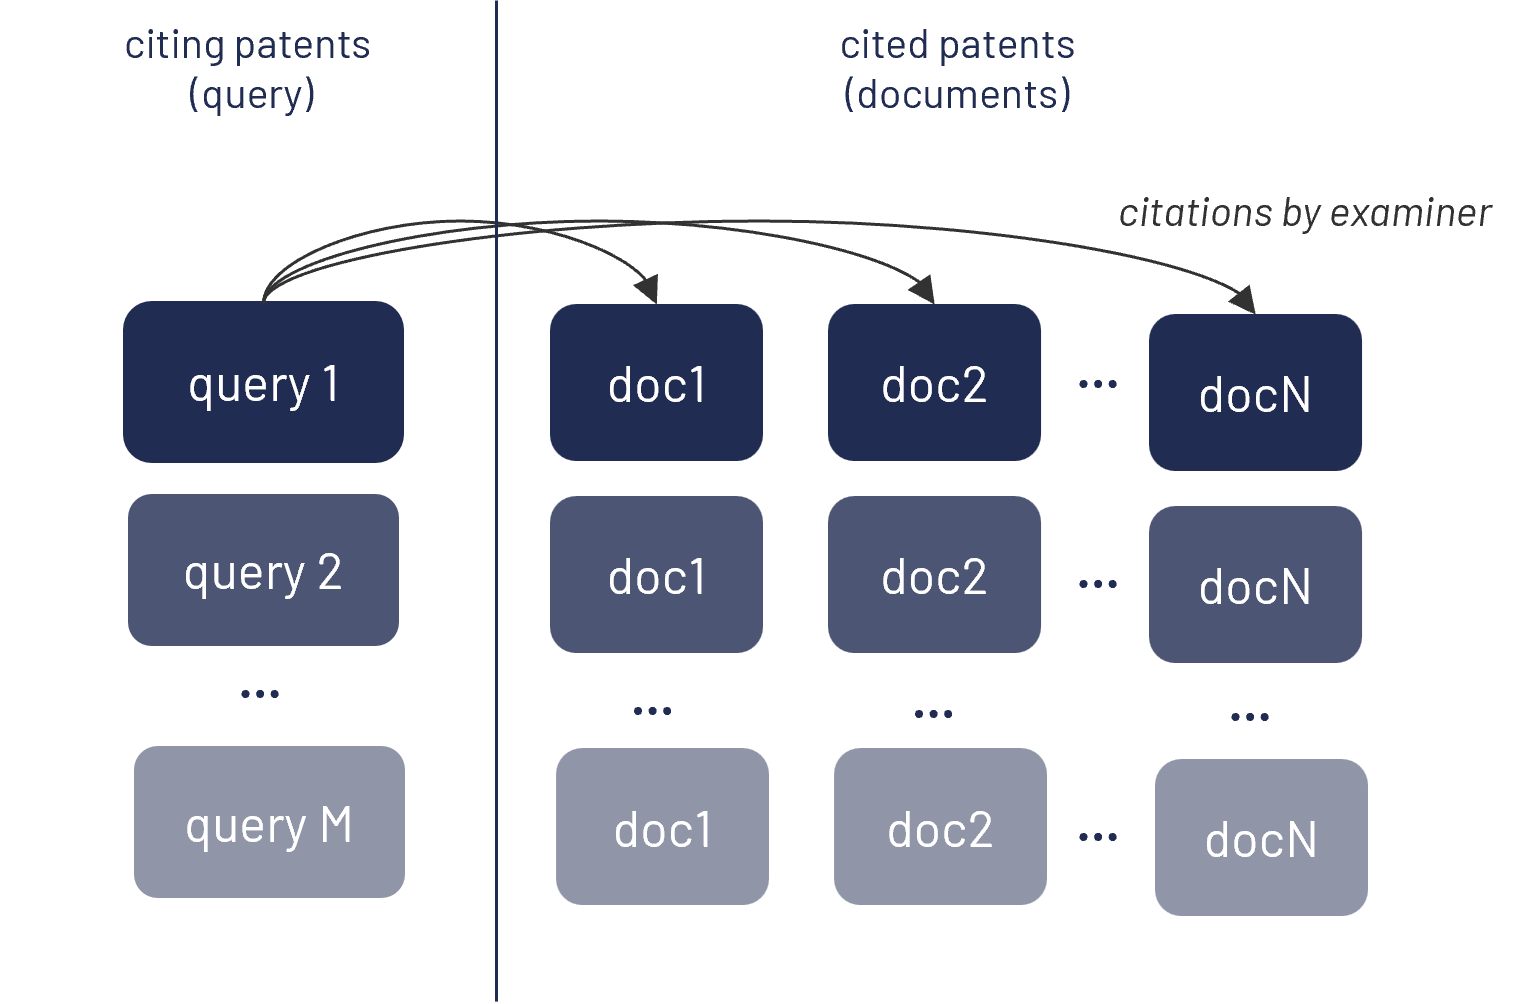
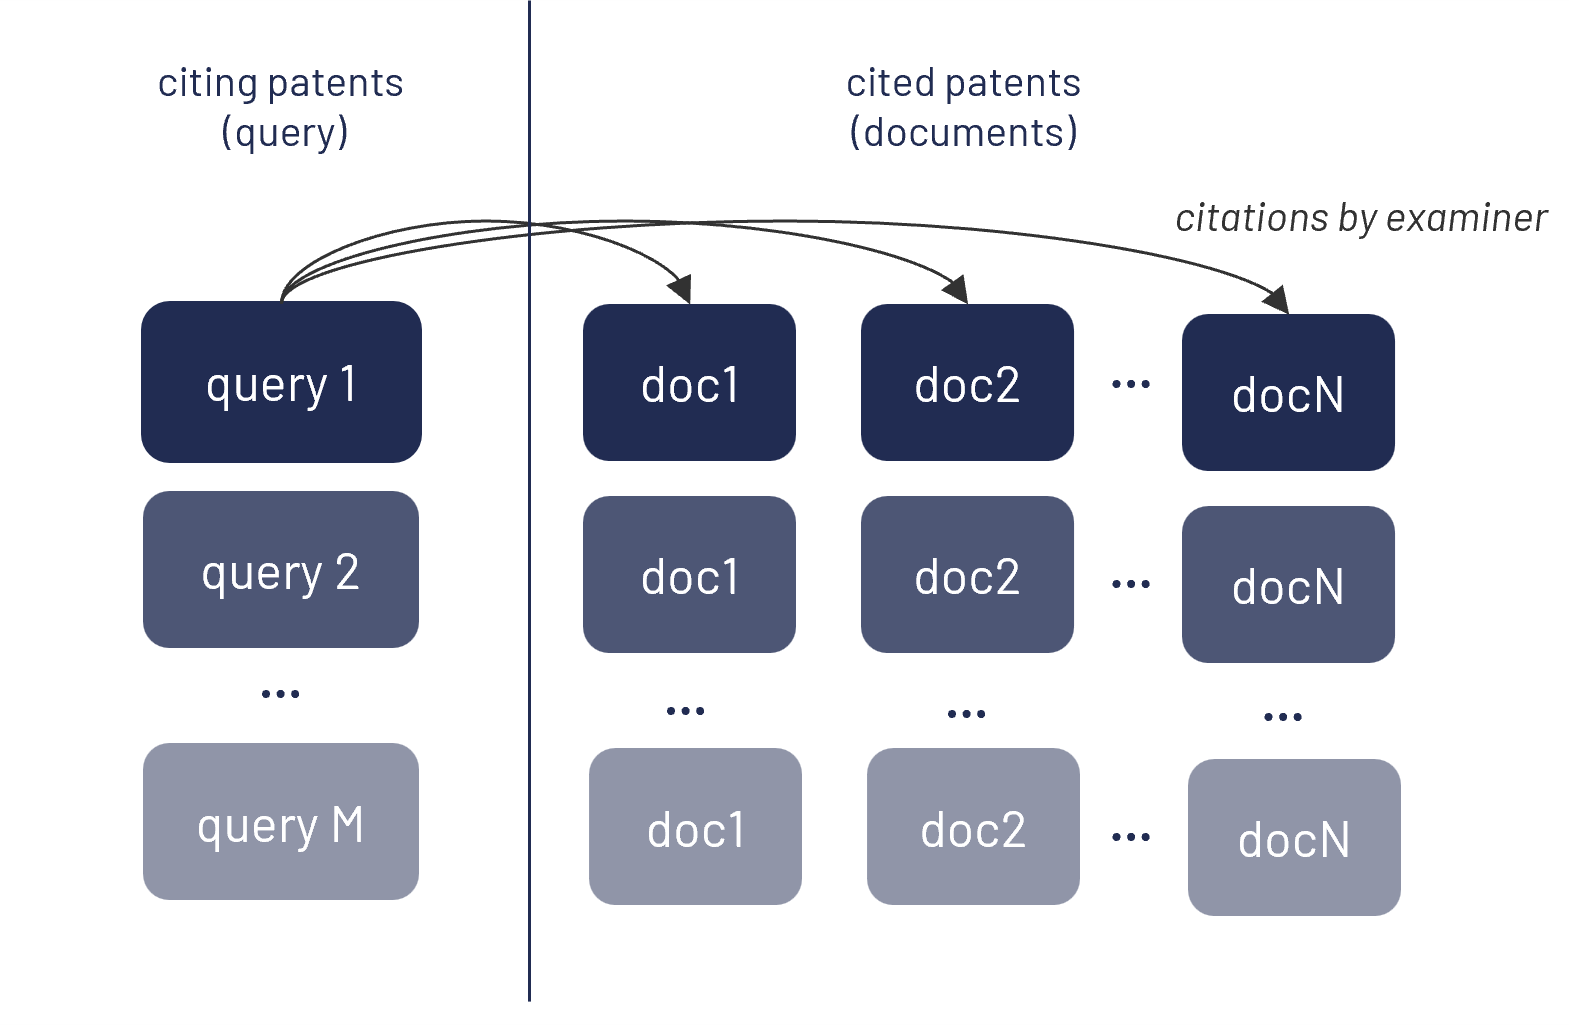
add example of scraping

diff --git a/README.md b/README.md
@@ -1,15 +1,18 @@
 # Dataset for Multimodal Information Retrieval - Googl Patent Scraping
 
-This repository provides scripts for constructing an evaluation dataset for multimodal information retrieval (IR). The pipeline enables the automatic creation of the dataset by scraping front-page images and first claims from Google Patents (https://patents.google.com/).
+This repository provides scripts for constructing an evaluation dataset for multimodal information retrieval (IR). The pipeline enables the automatic creation of the dataset by scraping front-page images and first claims from Google Patents (https://patents.google.com/), see Fig.1.
 
-We use existing patent citation metadata to establish query–document relationships: for each citing patent, its cited patents are retrieved and used as relevant documents. This approach allows the automatic generation of relevance labels, eliminating the need for costly and time-consuming manual annotation (see Fig. 1). 
+![example_scraping](assets/example_scraping.png)
 
+**Fig. 1** - *Example of accessing the HTML element corresponding to the front-page image of a patent on Google Patents.*
 
-![readme_img](assets/citations_by_examiner.png)
+We use existing patent citation metadata to establish query–document relationships: for each citing patent, its cited patents are retrieved and used as relevant documents. This approach allows the automatic generation of relevance labels, eliminating the need for costly and time-consuming manual annotation (see Fig. 2). This approach, applied jointly to patent images and textual content, is not currently supported by existing web service platforms such as Espacenet and the USPTO.
 
-**Fig. 1** - *query-document reslationships using*
+![citations_by_examiner](assets/citations_by_examiner.png)
 
-The query–document relationships derived from patent citation metadata are used as ground-truth relevance labels to evaluate retrieval performance. Specifically, these relationships enable the computation of standard information retrieval metrics, including Precision@k, Recall@k, and F1-score@k, by comparing the set of k documents retrieved by a model for a given query against the corresponding set of cited patents assumed to be relevant.
+**Fig. 2** - *Automatic construction of query–document relevance labels using patent citation metadata.*
 
-The resulting evaluation dataset was used in the following published work: *"Consoloni, M., Giordano, V., Galatolo, F. A., Cimino, M. G. C. A., & Fantoni, G. (2025). Uncovering the limits of visual-language models in engineering knowledge representation. Proceedings of the Design Society, 5, 3261-3270. https://doi.org/10.1017/pds.2025.10340"*
+The query–document relationships derived from patent citation metadata are used as ground-truth relevance labels to evaluate retrieval performance. Specifically, these relationships enable the computation of standard information retrieval metrics, including *Precision@k*, *Recall@k*, and *F1-score@k*, by comparing the set of k documents retrieved by a model for a given query against the corresponding set of cited patents assumed to be relevant.
+
+The resulting evaluation dataset was used in the following published work: *"Consoloni, M., Giordano, V., Galatolo, F. A., Cimino, M. G. C. A., & Fantoni, G. (2025). Uncovering the limits of visual-language models in engineering knowledge representation. Proceedings of the Design Society, 5, 3261-3270.* https://doi.org/10.1017/pds.2025.10340"
 
